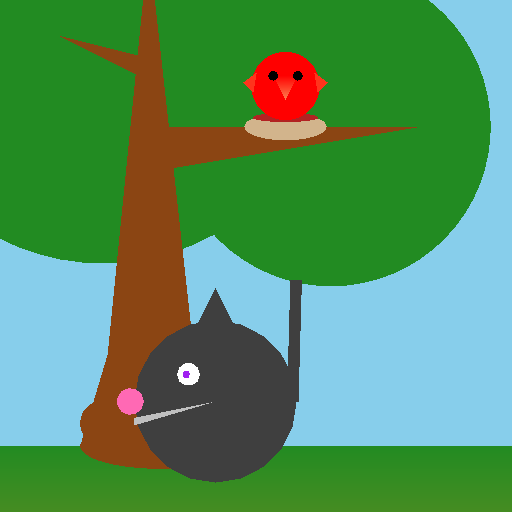
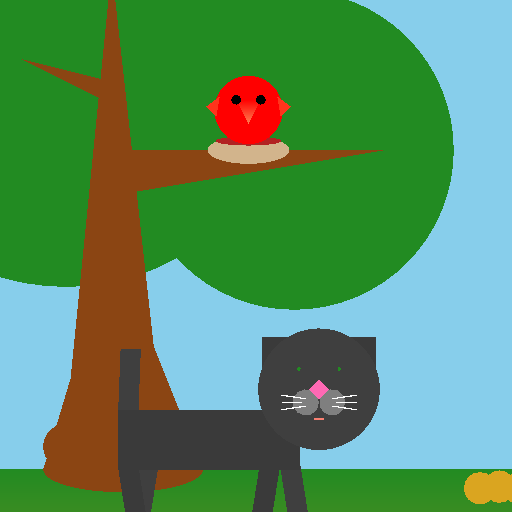
New version of cats

diff --git a/core/src/work/hungrygnu/thefreebird/beings/Cat.java b/core/src/work/hungrygnu/thefreebird/beings/Cat.java
@@ -4,6 +4,7 @@ import com.badlogic.gdx.graphics.Color;
 import com.badlogic.gdx.graphics.glutils.ShapeRenderer;
 import com.badlogic.gdx.math.Circle;
 import com.badlogic.gdx.math.MathUtils;
+import com.badlogic.gdx.math.Rectangle;
 import com.badlogic.gdx.math.Vector2;
 import com.badlogic.gdx.utils.TimeUtils;
 
@@ -14,8 +15,11 @@ import static work.hungrygnu.thefreebird.Constants.*;
 public class Cat extends FacingDeDyObject {
     // TODO: Draw the cat
     // TODO: Make the cat jump when it is near the bird
+    // TODO: Optimise code using more CAT-constants instead of calculation.
 
     private long catCreateMillis;
+    private Circle circle;
+    private Rectangle rectangle;
 
     public Cat(ShapeRenderer renderer, Boolean facingRight) {
 
@@ -32,14 +36,18 @@ public class Cat extends FacingDeDyObject {
         }
 
         catCreateMillis = TimeUtils.millis();
+        circle = new Circle(0,0, CAT_HEAD_RADIUS);
+        rectangle = new Rectangle(0,0, CAT_BODY_LENGTH, CAT_BODY_WIDTH);
+        update(0);
     }
 
 
     public void render(){
+
         renderer.set(ShapeRenderer.ShapeType.Filled);
-        renderer.setColor(CAT_COLOR_BODY);
-        renderer.circle(position.x, position.y, CAT_BODY_RADIUS);
-        rendrerFacing();
+        renderBody();
+        renderHead();
+
 
     }
 
@@ -47,99 +55,205 @@ public class Cat extends FacingDeDyObject {
 
         position.mulAdd(velocity, delta);
 
-        respectBorders(2 * CAT_BODY_RADIUS);
-
-
+        respectBorders(2 * CAT_BODY_LENGTH);
 
         position.y = CAT_Y + CAT_WALK_AMP *
-                CAT_BODY_RADIUS * getAnimationCoefficient();
+                CAT_BODY_WIDTH * getAnimationCoefficient();
+        rectangle.setPosition(position.x - CAT_BODY_LENGTH / 2f, position.y - CAT_BODY_WIDTH / 2f);
+        updateHead(rectangle.x, rectangle.y);
+
     }
 
     public Boolean hasCollisionWith(Poop poop){
-        Circle catCircle = new Circle(position.x,position.y, CAT_BODY_RADIUS);
-        return catCircle.contains(poop.position);
+        return circle.contains(poop.position) || rectangle.contains(poop.position);
     }
 
     public Boolean hasCollisionWith(Bird bird){
-        Circle catCircle = new Circle(position.x,position.y, CAT_BODY_RADIUS);
-        return catCircle.contains(bird.position);
-    }
-
-    public void rendrerFacing(){
-        float tailW = CAT_BODY_RADIUS /7f;
-        float tailX;
-        float tailY = position.y + CAT_BODY_RADIUS *1.5f;
-        float eyeX;
-        float eyeY = position.y + CAT_BODY_RADIUS/3f;
-        float noseX;
-        float mouthX;
-        float mouthY = position.y - CAT_BODY_RADIUS/5f;
-        float eyeR = CAT_BODY_RADIUS / 7f;
-        float pupilR = eyeR/3f;
-        float pupilX;
-
-        if (facingRight){
-            tailX = position.x - CAT_BODY_RADIUS + tailW/3f;
-            eyeX = position.x + CAT_BODY_RADIUS/3f;
-            noseX = position.x + 1.05f*CAT_BODY_RADIUS;
-            mouthX = position.x + 0.9f*CAT_BODY_RADIUS;
-            pupilX = eyeX + pupilR;
-
-        }
-        else {
-            tailX = position.x + CAT_BODY_RADIUS - tailW/3f;
-            eyeX = position.x - CAT_BODY_RADIUS/3f;
-            noseX = position.x - 1.05f*CAT_BODY_RADIUS;
-            mouthX = position.x - CAT_BODY_RADIUS;
-            pupilX = eyeX - pupilR;
-
-        }
-
-        float animCoefficient = getAnimationCoefficient();
-
-        // TAIL
-        renderer.rectLine(tailX, position.y, tailX + 0.3f*tailW *animCoefficient, tailY, tailW);
-
-        // EAR
-        float earOffsetX = CAT_BODY_RADIUS /4f;
-        float earHeight = CAT_BODY_RADIUS /2f;
-        float earBaseY = position.y + 0.9f* CAT_BODY_RADIUS;
-
-
-        renderer.triangle(position.x - earOffsetX, earBaseY,
-                position.x + earOffsetX, earBaseY,
-                position.x, earBaseY + earHeight);
-
-        // EAR2
-        float ear2DeltaX = (facingRight? earOffsetX: - earOffsetX);
-        float ear2DeltaY = -earOffsetX/6f;
-
-
-        renderer.triangle(position.x - earOffsetX + ear2DeltaX, earBaseY + ear2DeltaY ,
-                position.x+ ear2DeltaX + earOffsetX, earBaseY + ear2DeltaY,
-                position.x+ ear2DeltaX, earBaseY + earHeight + ear2DeltaY);
-
-
-        // EYE
-        renderer.setColor(Color.WHITE);
-        renderer.circle(eyeX, eyeY, eyeR);
-
-        // PUPIL
-        renderer.setColor(Color.PURPLE);
-        renderer.circle(pupilX + 0.4f*pupilR * animCoefficient , eyeY, pupilR);
-
-        // NOSE
-        renderer.setColor(Color.PINK);
-        renderer.circle(noseX, position.y, CAT_BODY_RADIUS / 6f);
-
-        // MOUTH
-        renderer.setColor(Color.LIGHT_GRAY);
-        //renderer.rectLine(position.x, position.y, mouthX, mouthY, tailW / 2);
-        renderer.triangle(position.x, position.y, mouthX, mouthY, mouthX, mouthY - tailW/3 - animCoefficient*tailW/3);
-
+        Rectangle collisionRect = new Rectangle(rectangle.x, rectangle.y - rectangle.height, rectangle.width, rectangle.height*2f );
+        return circle.contains(bird.position) || collisionRect.contains(bird.position);
     }
 
     private float getAnimationCoefficient(){
         return MathUtils.sin(MathUtils.PI2 * TimeUtils.timeSinceMillis(catCreateMillis) / CAT_WALK_PERIOD);
     }
+
+    private void renderBody()
+
+    {
+        float x = rectangle.x;
+        float y = rectangle.y;
+
+        float angle = 12 * getAnimationCoefficient();
+
+        // tail
+        float tailWidth = CAT_HEAD_RADIUS_ONE_THIRD;
+        float tailLength = CAT_HEAD_RADIUS + tailWidth/2;
+        float tailX = facingRight? x : x + CAT_BODY_LENGTH - tailWidth;
+        float tailY = y + CAT_HEAD_RADIUS - tailWidth/2;
+        float tailOriginX = tailWidth/4f;
+        float tailOriginY = 0;
+        float tailAngle = angle/4f;
+
+
+        // legs
+        float legLength = 0.8f*tailLength;
+        float legWidth = tailWidth;
+
+        float legY = y + legWidth/4f;
+        // handR
+        float handRX = facingRight?x + CAT_BODY_LENGTH - 2*legWidth:x;
+        float handRY = legY;
+        float handROriginX= legWidth/2f;
+        float handROriginY= 0;
+        float handRAngle = angle + 180;
+        // handL
+        float handLX = facingRight?x + CAT_BODY_LENGTH - legWidth:handRX + legWidth;
+        float handLY = legY;
+        float handLOriginX= legWidth/2f;
+        float handLOriginY= 0;
+        float handLAngle = -angle + 180;
+        // legR
+        float legRX = facingRight?x:x + CAT_BODY_LENGTH - legWidth*2f;
+        float legRY = legY;
+        float legROriginX= legWidth/2f;
+        float legROriginY= 0;
+        float legRAngle = -angle + 180;
+        // legL
+        float legLX = facingRight?x + legWidth:legRX + legWidth;
+        float legLY = legY;
+        float legLOriginX= legWidth/2f;
+        float legLOriginY= 0;
+        float legLAngle = angle + 180;
+
+        // TAIL
+        renderer.setColor(Color.DARK_GRAY);
+        renderer.rect(tailX, tailY, tailOriginX, tailOriginY, tailWidth, tailLength, 1, 1, tailAngle);
+
+        if (facingRight) {
+            // LEFT LEGS FIRST
+            renderer.setColor(Color.DARK_GRAY);
+            renderer.rect(handLX, handLY, handLOriginX, handLOriginY, legWidth, legLength, 1, 1, handLAngle);
+            renderer.rect(legLX, legLY, legLOriginX, legLOriginY, legWidth, legLength, 1, 1, legLAngle);
+            // BODY
+            renderer.setColor(CAT_COLOR_BODY);
+            renderer.rect(x, y, CAT_BODY_LENGTH, CAT_BODY_WIDTH);
+            // RIGHT LEGS
+            renderer.rect(handRX, handRY, handROriginX, handROriginY, legWidth, legLength, 1, 1, handRAngle);
+            renderer.rect(legRX, legRY, legROriginX, legROriginY, legWidth, legLength, 1, 1, legRAngle);
+        }
+        else{ // if facing left
+            // RIGHT LEGS FIRST
+            renderer.setColor(Color.DARK_GRAY);
+            renderer.rect(handRX, handRY, handROriginX, handROriginY, legWidth, legLength, 1, 1, handRAngle);
+            renderer.rect(legRX, legRY, legROriginX, legROriginY, legWidth, legLength, 1, 1, legRAngle);
+            // BODY
+            renderer.setColor(CAT_COLOR_BODY);
+            renderer.rect(x, y, CAT_BODY_LENGTH, CAT_BODY_WIDTH);
+            // LEFT LEGS
+            renderer.rect(handLX, handLY, handLOriginX, handLOriginY, legWidth, legLength, 1, 1, handLAngle);
+            renderer.rect(legLX, legLY, legLOriginX, legLOriginY, legWidth, legLength, 1, 1, legLAngle);
+           }
+
+
+    }
+
+    public void updateHead(float x, float y){
+        x += facingRight? CAT_BODY_LENGTH + CAT_HEAD_RADIUS_ONE_THIRD: -CAT_HEAD_RADIUS / 3f;
+        y += CAT_BODY_WIDTH + CAT_HEAD_RADIUS_ONE_THIRD;
+
+        x += CAT_HEAD_RADIUS_ONE_THIRD/10f * getAnimationCoefficient();
+
+        circle.setPosition(x,y);
+    }
+
+    public void renderHead(){
+
+        // CALCULATION OF COORDINATES
+        // CENTER
+        float x = circle.x;
+        float y = circle.y;
+
+        // NOSE
+        float noseSide = 0.7f*CAT_HEAD_RADIUS_ONE_THIRD;
+        float noseHalfSide = noseSide/2f;
+        float noseX = x-noseHalfSide;
+        float noseY = y - noseHalfSide;
+
+        // MOUTH
+        float mouthWidth = CAT_HEAD_RADIUS_ONE_THIRD/2f;
+        float mouthHeight = mouthWidth/5f;
+        float mouthX = x - mouthWidth/2f;
+        float mouthY = y - CAT_HEAD_RADIUS/2f;
+
+        // EYES
+        float eyeRadius = mouthHeight;
+        float eyeY = y + CAT_HEAD_RADIUS_ONE_THIRD;
+        // LEFT EYE
+        float eyeLX = x - CAT_HEAD_RADIUS_ONE_THIRD;
+        // RIGHT EYE
+        float eyeRX = x + CAT_HEAD_RADIUS_ONE_THIRD;
+
+        // CHEEKS
+        float cheekRadius = 1.3f*CAT_HEAD_RADIUS_ONE_THIRD/2f;
+        float cheekY = y - cheekRadius;
+        float cheekLeftX = x - cheekRadius;
+        float cheekRightX = x + cheekRadius;
+
+        // EARS
+        float earOffset = eyeRadius*2f;
+        float earX = x - CAT_HEAD_RADIUS + earOffset;
+        float earY = y;
+        float earW = CAT_HEAD_RADIUS*2f - 2f*earOffset;
+        float earH = CAT_HEAD_RADIUS - 2f*earOffset;
+
+        // MUSTACHE
+        float mustacheLength = 1.2f *CAT_HEAD_RADIUS_ONE_THIRD;
+        float mustacheWidth = mustacheLength/20f;
+        float mustacheYMiddle = cheekY;
+        float mustacheDelta = 3f*mustacheWidth;
+        float mustacheYTop = mustacheYMiddle + mustacheDelta;
+        float mustacheYBottom = mustacheYMiddle - mustacheDelta;
+        float mustacheXLeft = cheekLeftX;
+        float mustacheXRight = cheekRightX;
+        float mustacheXLeftEnd = cheekLeftX - mustacheLength;
+        float mustacheXRightEnd = cheekRightX + mustacheLength;
+
+
+
+        // RENDERING
+        renderer.setColor(CAT_COLOR_BODY);
+        renderer.rect(earX, earY, earW, earH);
+        // HEAD
+        renderer.setColor(Color.DARK_GRAY);
+        renderer.circle(x, y, CAT_HEAD_RADIUS, CAT_HEAD_SEGMENTS);
+        // MOUTH
+        renderer.setColor(Color.SALMON);
+        renderer.rect(mouthX, mouthY, mouthWidth, mouthHeight);
+        // EYES
+        renderer.setColor(Color.FOREST);
+        renderer.circle(eyeLX, eyeY, eyeRadius);
+        renderer.circle(eyeRX, eyeY, eyeRadius);
+        // CHEEKS
+        renderer.setColor(Color.GRAY);
+        renderer.circle(cheekLeftX, cheekY, cheekRadius);
+        renderer.circle(cheekRightX, cheekY, cheekRadius);
+        // NOSE
+        renderer.setColor(Color.PINK);
+        renderer.rect(noseX, noseY, noseHalfSide, noseHalfSide, noseSide, noseSide, 1, 1, 45);
+        // MUSTACHE
+        renderer.setColor(Color.WHITE);
+        renderer.rectLine(mustacheXLeft-mustacheDelta, mustacheYMiddle, mustacheXLeftEnd, mustacheYMiddle, mustacheWidth);
+        renderer.rectLine(mustacheXRight+mustacheDelta, mustacheYMiddle, mustacheXRightEnd, mustacheYMiddle, mustacheWidth);
+
+        renderer.rectLine(mustacheXLeft, mustacheYTop, mustacheXLeftEnd, mustacheYTop + mustacheDelta, mustacheWidth);
+        renderer.rectLine(mustacheXRight, mustacheYTop, mustacheXRightEnd, mustacheYTop + mustacheDelta, mustacheWidth);
+
+        renderer.rectLine(mustacheXLeft, mustacheYBottom, mustacheXLeftEnd, mustacheYBottom - mustacheDelta, mustacheWidth);
+        renderer.rectLine(mustacheXRight, mustacheYBottom, mustacheXRightEnd, mustacheYBottom - mustacheDelta, mustacheWidth);
+
+
+
+    }
+
+
 }

diff --git a/core/src/work/hungrygnu/thefreebird/Constants.java b/core/src/work/hungrygnu/thefreebird/Constants.java
@@ -124,16 +124,22 @@ public class Constants {
     public static final float ARROW_HEAD_HALFWIDTH = ARROW_WIDTH*0.5f;
 
     // Cat parameters
-    public static final Color CAT_COLOR_BODY = Color.DARK_GRAY;
-    public static final float CAT_SPEED_X = 100f;
-    public static final float CAT_BODY_RADIUS = 40f;
+    public static final Color CAT_COLOR_BODY = new Color(0.23f, 0.23f,  0.23f, 1);
+    public static final float CAT_HEAD_RADIUS = 30f;
+    public static final float CAT_HEAD_RADIUS_ONE_THIRD = CAT_HEAD_RADIUS/3f;
+    public static final float CAT_BODY_LENGTH = 3f * CAT_HEAD_RADIUS;
+    public static final float CAT_BODY_WIDTH = CAT_HEAD_RADIUS;
+    public static final int CAT_HEAD_SEGMENTS = 64;
+
+    public static final float CAT_SPEED_X = 90f;
+    public static final float CAT_BODY_RADIUS = CAT_BODY_LENGTH + CAT_HEAD_RADIUS;
     public static final float CAT_START_X_LEFT = -CAT_BODY_RADIUS;
     public static final float CAT_START_X_RIGHT = WORLD_WIDTH;
     public static final int CAT_RESPAWN_COEFFICIENT = 150; // BIGGER NUMBER - LESS CATS
     public static final int CAT_MAX_NUMBER = 100;
-    public static final float CAT_WALK_AMP = 0.05f;
-    public static final long CAT_WALK_PERIOD = 1000l;
-    public static final float CAT_Y = SKY_Y + CAT_BODY_RADIUS/2f;
+    public static final float CAT_WALK_AMP = 0.02f;
+    public static final long CAT_WALK_PERIOD = 340l;
+    public static final float CAT_Y = SKY_Y + CAT_BODY_WIDTH/2f;
 
     // Caterpillar parameters
     public static final Color CATERPILLAR_COLOR_BODY = Color.GOLDENROD;
